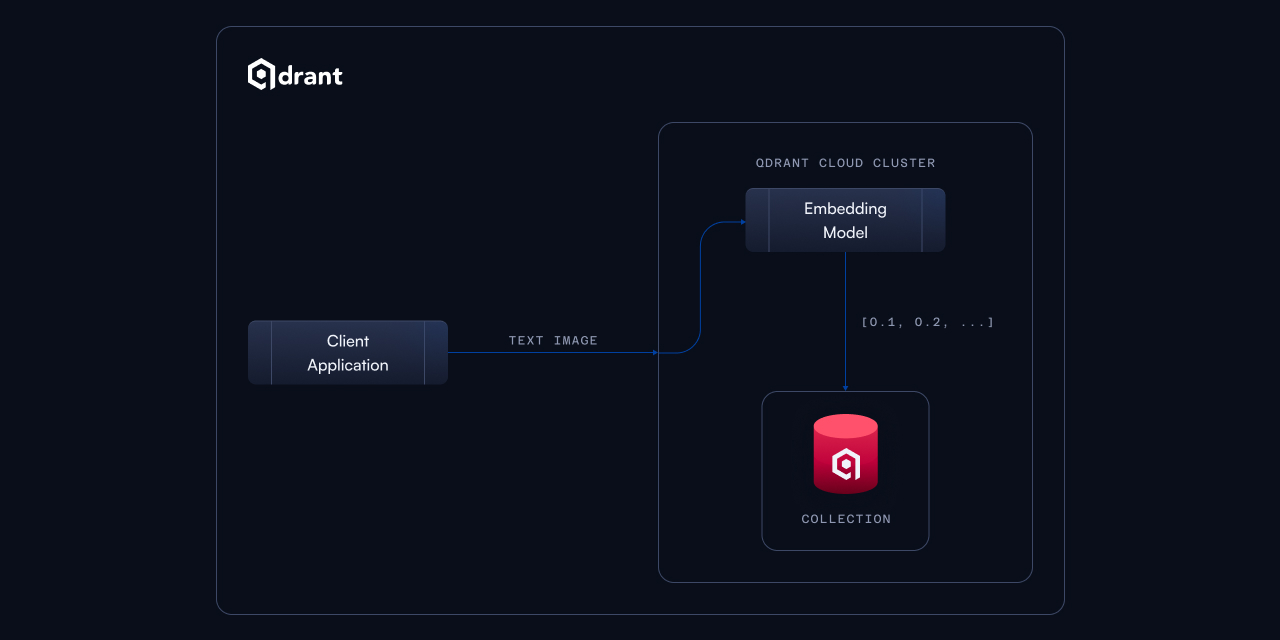
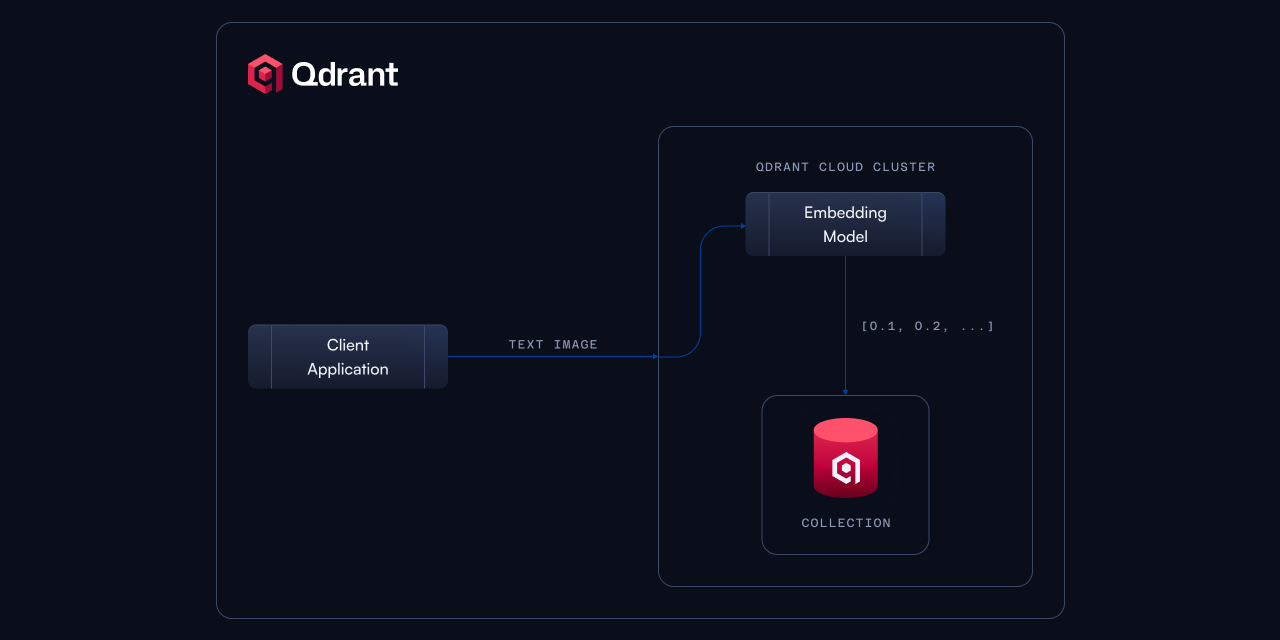
inference-blog-updated-images

diff --git a/qdrant-landing/content/blog/qdrant-cloud-inference-launch.md b/qdrant-landing/content/blog/qdrant-cloud-inference-launch.md
@@ -3,8 +3,8 @@ draft: false
 title: "Introducing Qdrant Cloud Inference"
 short_description: "Run inferencing natively in Qdrant Cloud"
 description: "Learn how to generate embeddings natively in Qdrant Cloud"
-preview_image: /blog/qdrant-cloud-inference/inference-how-it-works.png
-social_preview_image: /blog/qdrant-cloud-inference/inference-how-it-works.png
+preview_image: /blog/qdrant-cloud-inference/inference-social-preview.jpg
+social_preview_image: /blog/qdrant-cloud-inference/inference-social-preview.jpg
 date: 2025-07-14T00:00:00Z
 author: Daniel Azoulai
 featured: true
@@ -33,7 +33,7 @@ At launch, Qdrant Cloud Inference includes six curated models to start with. Cho
 
 *Want to request a different model to integrate? You can do this at [https://support.qdrant.io/](https://support.qdrant.io/).*
 
-![architecture](/blog/qdrant-cloud-inference/inference-ui.png)
+![architecture](/blog/qdrant-cloud-inference/inference-ui.jpg)
 
 ## Get up to 5M free tokens per model per month
 
